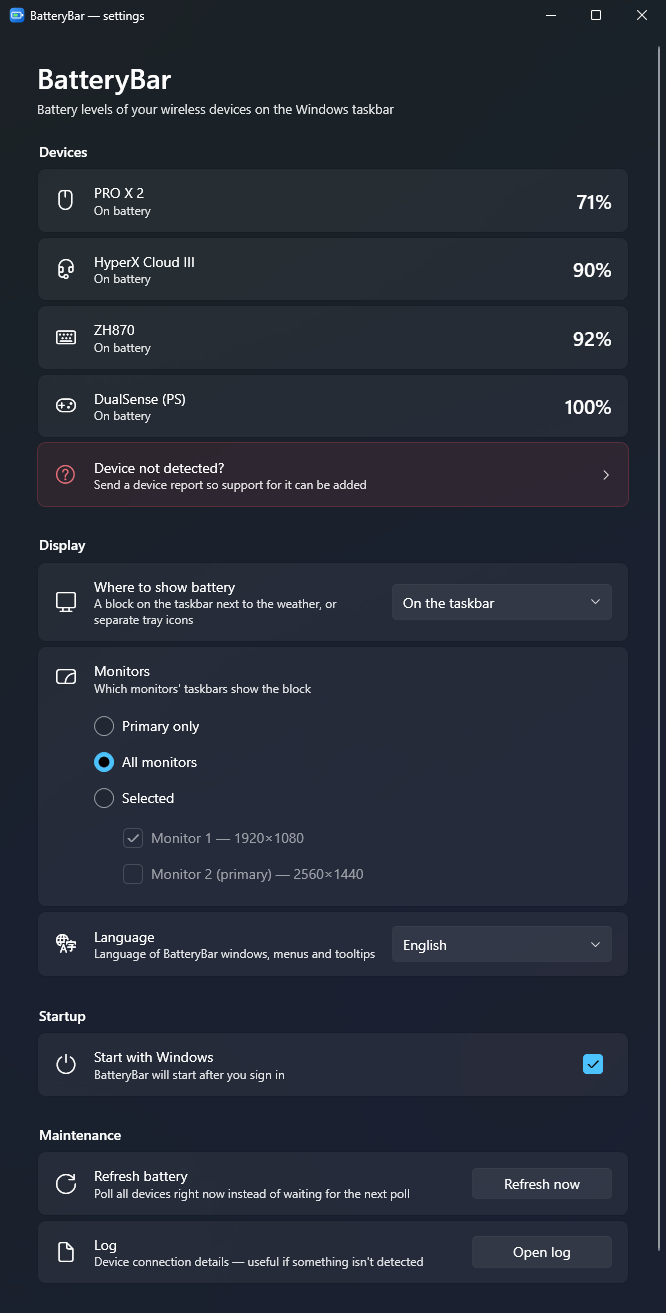
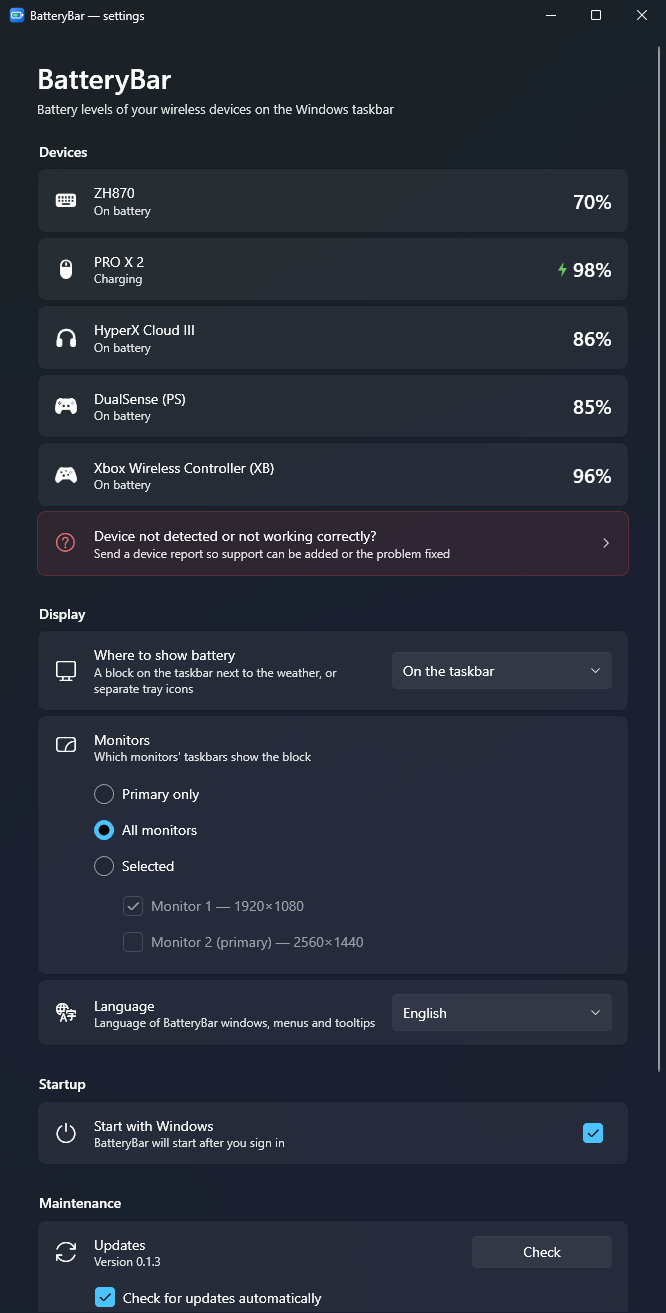
README: новые скриншоты с заполненными значками
Скриншоты панели задач, иконок в трее, окна настроек и окна отчёта
с новыми заполненными значками устройств и молнией зарядки.
Раздел про отчёт переименован в «Устройство не определилось или работает
неправильно?», как кнопка в настройках.

diff --git a/README.md b/README.md
@@ -15,7 +15,7 @@
 </p>
 
 <p align="center">
-  <img src="docs/screenshots/taskbar.png" alt="BatteryBar на панели задач: мышь 71%, гарнитура 90%, клавиатура 93%, DualSense 100%">
+  <img src="docs/screenshots/taskbar.png" alt="BatteryBar на панели задач: клавиатура 69%, мышь 98% (заряжается), гарнитура 86%, DualSense 85%, геймпад Xbox 96%">
 </p>
 
 ## Возможности
@@ -35,7 +35,7 @@
 Вместо блока на панели (или вместе с ним) у каждого устройства может быть своя иконка: значок устройства и полоска заряда. Полоска зелёная во время зарядки и красная при низком заряде, точный процент — во всплывающей подсказке.
 
 <p align="center">
-  <img src="docs/screenshots/tray.png" width="408" alt="Иконки в трее: гарнитура, геймпад, клавиатура и мышь с полосками заряда">
+  <img src="docs/screenshots/tray.png" width="516" alt="Иконки в трее: клавиатура, мышь, гарнитура, геймпады PS и Xbox с полосками заряда">
 </p>
 
 ## Окно настроек
@@ -64,12 +64,12 @@
 
 🧪 — сделано по открытым описаниям протоколов, но на настоящем устройстве ещё не подтверждено. Если у вас работает (или не работает) — сообщите, пожалуйста.
 
-### Устройство не определилось?
+### Устройство не определилось или работает неправильно?
 
-Откройте **Настройки → «Устройство не определилось?»**, выберите устройство и нажмите **«Отправить на GitHub»**. В браузере откроется заполненная заявка — весь отчёт виден до отправки. В нём только технические идентификаторы устройств: без серийных номеров и личных имён.
+Откройте **Настройки → «Устройство не определилось или работает неправильно?»**, выберите устройство и нажмите **«Отправить на GitHub»**. В браузере откроется заполненная заявка — весь отчёт виден до отправки. В нём только технические идентификаторы устройств: без серийных номеров и личных имён.
 
 <p align="center">
-  <img src="docs/screenshots/report-ru.png" width="460" alt="Окно «Устройство не определилось?»">
+  <img src="docs/screenshots/report-ru.png" width="460" alt="Окно «Устройство не определилось или работает неправильно?»">
 </p>
 
 ## Установка

diff --git a/README.en.md b/README.en.md
@@ -15,7 +15,7 @@
 </p>
 
 <p align="center">
-  <img src="docs/screenshots/taskbar.png" alt="BatteryBar on the taskbar: mouse 71%, headset 90%, keyboard 93%, DualSense 100%">
+  <img src="docs/screenshots/taskbar.png" alt="BatteryBar on the taskbar: keyboard 69%, mouse 98% (charging), headset 86%, DualSense 85%, Xbox controller 96%">
 </p>
 
 ## Features
@@ -35,7 +35,7 @@
 Instead of the taskbar block (or together with it), every device can get its own tray icon: the device glyph and a battery bar. The bar is green while charging and red when low; the exact percentage is in the tooltip.
 
 <p align="center">
-  <img src="docs/screenshots/tray.png" width="408" alt="Tray icons: headset, gamepad, keyboard and mouse with battery bars">
+  <img src="docs/screenshots/tray.png" width="516" alt="Tray icons: keyboard, mouse, headset, PS and Xbox controllers with battery bars">
 </p>
 
 ## Settings window
@@ -64,12 +64,12 @@ Instead of the taskbar block (or together with it), every device can get its own
 
 🧪 — implemented from public protocol descriptions but not yet confirmed on real hardware. If it works (or doesn't) for you, please let us know.
 
-### Your device isn't detected?
+### Your device isn't detected or doesn't work correctly?
 
-Open **Settings → Device not detected?**, pick the device and press **Send to GitHub**. A pre-filled issue opens in your browser — you see the whole report before sending. It contains only technical device IDs: no serial numbers and no personal names.
+Open **Settings → Device not detected or not working correctly?**, pick the device and press **Send to GitHub**. A pre-filled issue opens in your browser — you see the whole report before sending. It contains only technical device IDs: no serial numbers and no personal names.
 
 <p align="center">
-  <img src="docs/screenshots/report-en.png" width="460" alt="Device not detected window">
+  <img src="docs/screenshots/report-en.png" width="460" alt="Device not detected or not working correctly window">
 </p>
 
 ## Installation
